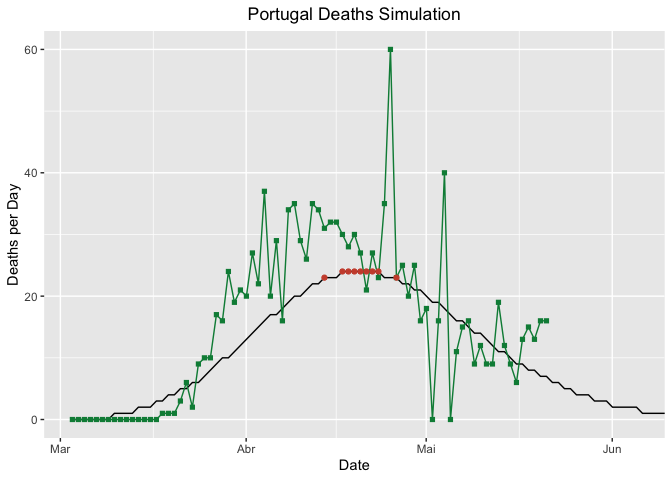
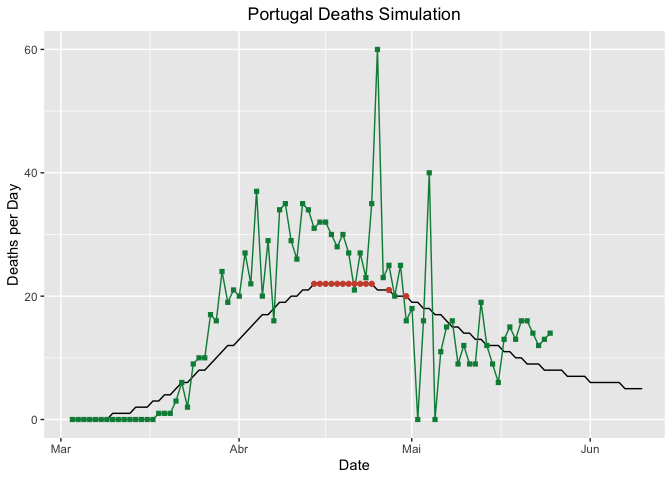
daily commit

diff --git a/README.md b/README.md
@@ -1,4 +1,4 @@
-Updated: 2020-05-21
+Updated: 2020-05-25
 
 Synopsis
 --------
@@ -30,13 +30,13 @@ formats. I choose the JSON format.
     data <- as_tibble(dataRaw$records)
     str(data)
 
-    ## Classes 'tbl_df', 'tbl' and 'data.frame':    18412 obs. of  11 variables:
-    ##  $ dateRep                : chr  "21/05/2020" "20/05/2020" "19/05/2020" "18/05/2020" ...
-    ##  $ day                    : chr  "21" "20" "19" "18" ...
+    ## Classes 'tbl_df', 'tbl' and 'data.frame':    19248 obs. of  11 variables:
+    ##  $ dateRep                : chr  "25/05/2020" "24/05/2020" "23/05/2020" "22/05/2020" ...
+    ##  $ day                    : chr  "25" "24" "23" "22" ...
     ##  $ month                  : chr  "5" "5" "5" "5" ...
     ##  $ year                   : chr  "2020" "2020" "2020" "2020" ...
-    ##  $ cases                  : chr  "492" "581" "408" "262" ...
-    ##  $ deaths                 : chr  "9" "5" "4" "1" ...
+    ##  $ cases                  : chr  "584" "782" "540" "531" ...
+    ##  $ deaths                 : chr  "2" "11" "12" "6" ...
     ##  $ countriesAndTerritories: chr  "Afghanistan" "Afghanistan" "Afghanistan" "Afghanistan" ...
     ##  $ geoId                  : chr  "AF" "AF" "AF" "AF" ...
     ##  $ countryterritoryCode   : chr  "AFG" "AFG" "AFG" "AFG" ...
@@ -58,13 +58,13 @@ numeric values and date values into their respective formats.
     data$popData2018 <- as.numeric(data$popData2018)
     str(data)
 
-    ## Classes 'tbl_df', 'tbl' and 'data.frame':    18412 obs. of  11 variables:
-    ##  $ dateRep                : Date, format: "2020-05-21" "2020-05-20" ...
-    ##  $ day                    : num  21 20 19 18 17 16 15 14 13 12 ...
+    ## Classes 'tbl_df', 'tbl' and 'data.frame':    19248 obs. of  11 variables:
+    ##  $ dateRep                : Date, format: "2020-05-25" "2020-05-24" ...
+    ##  $ day                    : num  25 24 23 22 21 20 19 18 17 16 ...
     ##  $ month                  : num  5 5 5 5 5 5 5 5 5 5 ...
     ##  $ year                   : num  2020 2020 2020 2020 2020 2020 2020 2020 2020 2020 ...
-    ##  $ cases                  : num  492 581 408 262 0 ...
-    ##  $ deaths                 : num  9 5 4 1 0 32 6 3 5 2 ...
+    ##  $ cases                  : num  584 782 540 531 492 ...
+    ##  $ deaths                 : num  2 11 12 6 9 5 4 1 0 32 ...
     ##  $ countriesAndTerritories: chr  "Afghanistan" "Afghanistan" "Afghanistan" "Afghanistan" ...
     ##  $ geoId                  : chr  "AF" "AF" "AF" "AF" ...
     ##  $ countryterritoryCode   : chr  "AFG" "AFG" "AFG" "AFG" ...
@@ -78,28 +78,28 @@ Let’s check out a summary of our data:
 
     ##     dateRep                day            month             year     
     ##  Min.   :2019-12-31   Min.   : 1.00   Min.   : 1.000   Min.   :2019  
-    ##  1st Qu.:2020-03-10   1st Qu.: 8.00   1st Qu.: 3.000   1st Qu.:2020  
-    ##  Median :2020-04-07   Median :15.00   Median : 4.000   Median :2020  
-    ##  Mean   :2020-03-30   Mean   :15.44   Mean   : 3.509   Mean   :2020  
-    ##  3rd Qu.:2020-04-29   3rd Qu.:22.00   3rd Qu.: 4.000   3rd Qu.:2020  
-    ##  Max.   :2020-05-21   Max.   :31.00   Max.   :12.000   Max.   :2020  
+    ##  1st Qu.:2020-03-12   1st Qu.: 9.00   1st Qu.: 3.000   1st Qu.:2020  
+    ##  Median :2020-04-09   Median :16.00   Median : 4.000   Median :2020  
+    ##  Mean   :2020-04-01   Mean   :15.79   Mean   : 3.574   Mean   :2020  
+    ##  3rd Qu.:2020-05-02   3rd Qu.:23.00   3rd Qu.: 5.000   3rd Qu.:2020  
+    ##  Max.   :2020-05-25   Max.   :31.00   Max.   :12.000   Max.   :2020  
     ##                                                                      
     ##      cases             deaths        countriesAndTerritories    geoId          
-    ##  Min.   :-2461.0   Min.   :   0.00   Length:18412            Length:18412      
+    ##  Min.   :-2461.0   Min.   :   0.00   Length:19248            Length:19248      
     ##  1st Qu.:    0.0   1st Qu.:   0.00   Class :character        Class :character  
     ##  Median :    2.0   Median :   0.00   Mode  :character        Mode  :character  
-    ##  Mean   :  269.4   Mean   :  17.81                                             
-    ##  3rd Qu.:   40.0   3rd Qu.:   1.00                                             
+    ##  Mean   :  279.1   Mean   :  17.91                                             
+    ##  3rd Qu.:   44.0   3rd Qu.:   1.00                                             
     ##  Max.   :48529.0   Max.   :4928.00                                             
     ##                                                                                
     ##  countryterritoryCode  popData2018        continentExp      
-    ##  Length:18412         Min.   :1.000e+03   Length:18412      
-    ##  Class :character     1st Qu.:2.254e+06   Class :character  
+    ##  Length:19248         Min.   :1.000e+03   Length:19248      
+    ##  Class :character     1st Qu.:2.119e+06   Class :character  
     ##  Mode  :character     Median :9.631e+06   Mode  :character  
-    ##                       Mean   :5.114e+07                     
-    ##                       3rd Qu.:3.603e+07                     
+    ##                       Mean   :5.053e+07                     
+    ##                       3rd Qu.:3.370e+07                     
     ##                       Max.   :1.393e+09                     
-    ##                       NA's   :241
+    ##                       NA's   :261
 
 Ok, something awkward is going on. The **new cases** and **deaths**
 variable have negative values, because, as one may notice, the minimum
@@ -156,49 +156,49 @@ absolute numbers with percentages related to country population:
 <tbody>
 <tr class="odd">
 <td style="text-align: left;">United_States_of_America</td>
-<td style="text-align: right;">1551853</td>
+<td style="text-align: right;">1643238</td>
 </tr>
 <tr class="even">
-<td style="text-align: left;">Russia</td>
-<td style="text-align: right;">308705</td>
+<td style="text-align: left;">Brazil</td>
+<td style="text-align: right;">363211</td>
 </tr>
 <tr class="odd">
-<td style="text-align: left;">Brazil</td>
-<td style="text-align: right;">291579</td>
+<td style="text-align: left;">Russia</td>
+<td style="text-align: right;">344481</td>
 </tr>
 <tr class="even">
 <td style="text-align: left;">United_Kingdom</td>
-<td style="text-align: right;">248293</td>
+<td style="text-align: right;">259559</td>
 </tr>
 <tr class="odd">
 <td style="text-align: left;">Spain</td>
-<td style="text-align: right;">232555</td>
+<td style="text-align: right;">235772</td>
 </tr>
 <tr class="even">
 <td style="text-align: left;">Italy</td>
-<td style="text-align: right;">227364</td>
+<td style="text-align: right;">229858</td>
 </tr>
 <tr class="odd">
 <td style="text-align: left;">Germany</td>
-<td style="text-align: right;">176752</td>
+<td style="text-align: right;">178570</td>
 </tr>
 <tr class="even">
 <td style="text-align: left;">Turkey</td>
-<td style="text-align: right;">152587</td>
+<td style="text-align: right;">156827</td>
 </tr>
 <tr class="odd">
 <td style="text-align: left;">France</td>
-<td style="text-align: right;">143845</td>
+<td style="text-align: right;">144921</td>
 </tr>
 <tr class="even">
-<td style="text-align: left;">Iran</td>
-<td style="text-align: right;">126949</td>
+<td style="text-align: left;">India</td>
+<td style="text-align: right;">138845</td>
 </tr>
 </tbody>
 </table>
 
 The above table reflects the ranked 10 worst countries in COVID-19
-diagnosed cases. Portugal is ranked **26**, with **29660** total cases.
+diagnosed cases. Portugal is ranked **28**, with **30623** total cases.
 
     DeathsRank <- data %>% 
             group_by(countriesAndTerritories) %>%
@@ -222,49 +222,49 @@ diagnosed cases. Portugal is ranked **26**, with **29660** total cases.
 <tbody>
 <tr class="odd">
 <td style="text-align: left;">United_States_of_America</td>
-<td style="text-align: right;">93439</td>
+<td style="text-align: right;">97720</td>
 </tr>
 <tr class="even">
 <td style="text-align: left;">United_Kingdom</td>
-<td style="text-align: right;">35704</td>
+<td style="text-align: right;">36793</td>
 </tr>
 <tr class="odd">
 <td style="text-align: left;">Italy</td>
-<td style="text-align: right;">32330</td>
+<td style="text-align: right;">32785</td>
 </tr>
 <tr class="even">
-<td style="text-align: left;">France</td>
-<td style="text-align: right;">28132</td>
+<td style="text-align: left;">Spain</td>
+<td style="text-align: right;">28752</td>
 </tr>
 <tr class="odd">
-<td style="text-align: left;">Spain</td>
-<td style="text-align: right;">27888</td>
+<td style="text-align: left;">France</td>
+<td style="text-align: right;">28367</td>
 </tr>
 <tr class="even">
 <td style="text-align: left;">Brazil</td>
-<td style="text-align: right;">18859</td>
+<td style="text-align: right;">22666</td>
 </tr>
 <tr class="odd">
 <td style="text-align: left;">Belgium</td>
-<td style="text-align: right;">9150</td>
+<td style="text-align: right;">9280</td>
 </tr>
 <tr class="even">
 <td style="text-align: left;">Germany</td>
-<td style="text-align: right;">8147</td>
+<td style="text-align: right;">8257</td>
 </tr>
 <tr class="odd">
 <td style="text-align: left;">Iran</td>
-<td style="text-align: right;">7183</td>
+<td style="text-align: right;">7417</td>
 </tr>
 <tr class="even">
 <td style="text-align: left;">Mexico</td>
-<td style="text-align: right;">6090</td>
+<td style="text-align: right;">7394</td>
 </tr>
 </tbody>
 </table>
 
 The above table reflects the ranked 10 worst countries in COVID-19
-deaths. Portugal is ranked **22**, with **1263** total deaths.
+deaths. Portugal is ranked **23**, with **1316** total deaths.
 
 Let us now check the same rates in percentage.
 
@@ -304,15 +304,15 @@ Let us now check the same rates in percentage.
 </tr>
 <tr class="even">
 <td style="text-align: left;">San_Marino</td>
-<td style="text-align: right;">656</td>
+<td style="text-align: right;">665</td>
 <td style="text-align: right;">33785</td>
-<td style="text-align: right;">1.9416901</td>
+<td style="text-align: right;">1.9683291</td>
 </tr>
 <tr class="odd">
 <td style="text-align: left;">Qatar</td>
-<td style="text-align: right;">37097</td>
+<td style="text-align: right;">43714</td>
 <td style="text-align: right;">2781677</td>
-<td style="text-align: right;">1.3336200</td>
+<td style="text-align: right;">1.5714981</td>
 </tr>
 <tr class="even">
 <td style="text-align: left;">Holy_See</td>
@@ -322,39 +322,39 @@ Let us now check the same rates in percentage.
 </tr>
 <tr class="odd">
 <td style="text-align: left;">Andorra</td>
-<td style="text-align: right;">762</td>
+<td style="text-align: right;">763</td>
 <td style="text-align: right;">77006</td>
-<td style="text-align: right;">0.9895333</td>
+<td style="text-align: right;">0.9908319</td>
 </tr>
 <tr class="even">
 <td style="text-align: left;">Luxembourg</td>
-<td style="text-align: right;">3971</td>
+<td style="text-align: right;">3992</td>
 <td style="text-align: right;">607728</td>
-<td style="text-align: right;">0.6534173</td>
-</tr>
-<tr class="odd">
-<td style="text-align: left;">Singapore</td>
-<td style="text-align: right;">29364</td>
-<td style="text-align: right;">5638676</td>
-<td style="text-align: right;">0.5207605</td>
-</tr>
-<tr class="even">
-<td style="text-align: left;">Iceland</td>
-<td style="text-align: right;">1803</td>
-<td style="text-align: right;">353574</td>
-<td style="text-align: right;">0.5099357</td>
+<td style="text-align: right;">0.6568728</td>
 </tr>
 <tr class="odd">
 <td style="text-align: left;">Bahrain</td>
-<td style="text-align: right;">7888</td>
+<td style="text-align: right;">9138</td>
 <td style="text-align: right;">1569439</td>
-<td style="text-align: right;">0.5026000</td>
+<td style="text-align: right;">0.5822463</td>
 </tr>
 <tr class="even">
-<td style="text-align: left;">Ireland</td>
-<td style="text-align: right;">24315</td>
-<td style="text-align: right;">4853506</td>
-<td style="text-align: right;">0.5009781</td>
+<td style="text-align: left;">Singapore</td>
+<td style="text-align: right;">31616</td>
+<td style="text-align: right;">5638676</td>
+<td style="text-align: right;">0.5606990</td>
+</tr>
+<tr class="odd">
+<td style="text-align: left;">Kuwait</td>
+<td style="text-align: right;">21302</td>
+<td style="text-align: right;">4137309</td>
+<td style="text-align: right;">0.5148757</td>
+</tr>
+<tr class="even">
+<td style="text-align: left;">Iceland</td>
+<td style="text-align: right;">1804</td>
+<td style="text-align: right;">353574</td>
+<td style="text-align: right;">0.5102185</td>
 </tr>
 </tbody>
 </table>
@@ -379,15 +379,15 @@ Let us now check the same rates in percentage.
 </tr>
 <tr class="even">
 <td style="text-align: left;">San_Marino</td>
-<td style="text-align: right;">41</td>
+<td style="text-align: right;">42</td>
 <td style="text-align: right;">33785</td>
-<td style="text-align: right;">0.1213556</td>
+<td style="text-align: right;">0.1243155</td>
 </tr>
 <tr class="odd">
 <td style="text-align: left;">Belgium</td>
-<td style="text-align: right;">9150</td>
+<td style="text-align: right;">9280</td>
 <td style="text-align: right;">11422068</td>
-<td style="text-align: right;">0.0801081</td>
+<td style="text-align: right;">0.0812462</td>
 </tr>
 <tr class="even">
 <td style="text-align: left;">Andorra</td>
@@ -397,33 +397,33 @@ Let us now check the same rates in percentage.
 </tr>
 <tr class="odd">
 <td style="text-align: left;">Spain</td>
-<td style="text-align: right;">27888</td>
+<td style="text-align: right;">28752</td>
 <td style="text-align: right;">46723749</td>
-<td style="text-align: right;">0.0596870</td>
+<td style="text-align: right;">0.0615362</td>
 </tr>
 <tr class="even">
 <td style="text-align: left;">United_Kingdom</td>
-<td style="text-align: right;">35704</td>
+<td style="text-align: right;">36793</td>
 <td style="text-align: right;">66488991</td>
-<td style="text-align: right;">0.0536991</td>
+<td style="text-align: right;">0.0553370</td>
 </tr>
 <tr class="odd">
 <td style="text-align: left;">Italy</td>
-<td style="text-align: right;">32330</td>
+<td style="text-align: right;">32785</td>
 <td style="text-align: right;">60431283</td>
-<td style="text-align: right;">0.0534988</td>
+<td style="text-align: right;">0.0542517</td>
 </tr>
 <tr class="even">
 <td style="text-align: left;">France</td>
-<td style="text-align: right;">28132</td>
+<td style="text-align: right;">28367</td>
 <td style="text-align: right;">66987244</td>
-<td style="text-align: right;">0.0419961</td>
+<td style="text-align: right;">0.0423469</td>
 </tr>
 <tr class="odd">
 <td style="text-align: left;">Sweden</td>
-<td style="text-align: right;">3831</td>
+<td style="text-align: right;">3998</td>
 <td style="text-align: right;">10183175</td>
-<td style="text-align: right;">0.0376209</td>
+<td style="text-align: right;">0.0392608</td>
 </tr>
 <tr class="even">
 <td style="text-align: left;">Sint_Maarten</td>
@@ -436,8 +436,8 @@ Let us now check the same rates in percentage.
 
 There are evident differences from percentage to absolute numbers in the
 extremes (but in fact Portugal doesn’t change much at the time of this
-report writing). In percentage Portugal is in **25** place for cases and
-**25** for deaths. Is this a fair comparison? There may be missing
+report writing). In percentage Portugal is in **27** place for cases and
+**27** for deaths. Is this a fair comparison? There may be missing
 variables to understand our data: some index of number of urban centers
 per country for example, and also the predominance of respiratory
 diseases, atmospheric pollution and elderly people percentage. Also, the
@@ -535,19 +535,20 @@ effect.
 ![](README_files/figure-markdown_strict/deaths%20with%20sim-1.png)
 
 As we can observe from the graphs, the worst seems to have passed. The
-peak for new cases detected was in **2020-04-05** and the peak for
-deaths in Portugal was in **2020-04-17, 2020-04-18, 2020-04-19,
-2020-04-20, 2020-04-21, 2020-04-22, 2020-04-23**.
+peak for new cases detected was in **2020-04-06** and the peak for
+deaths in Portugal was in **2020-04-14, 2020-04-15, 2020-04-16,
+2020-04-17, 2020-04-18, 2020-04-19, 2020-04-20, 2020-04-21, 2020-04-22,
+2020-04-23, 2020-04-24**.
 
 Conclusions
 -----------
 
--   Cases: Portugal is ranked **26** in 207 countries, with **29660**
-    total cases. Portugal had the peak of cases in **2020-04-05**.  
--   Deaths: Portugal is ranked **22** in 207 countries, with **1263**
-    total deaths. Portugal had the peak of deaths in **2020-04-17,
-    2020-04-18, 2020-04-19, 2020-04-20, 2020-04-21, 2020-04-22,
-    2020-04-23**.
+-   Cases: Portugal is ranked **28** in 207 countries, with **30623**
+    total cases. Portugal had the peak of cases in **2020-04-06**.  
+-   Deaths: Portugal is ranked **23** in 207 countries, with **1316**
+    total deaths. Portugal had the peak of deaths in **2020-04-14,
+    2020-04-15, 2020-04-16, 2020-04-17, 2020-04-18, 2020-04-19,
+    2020-04-20, 2020-04-21, 2020-04-22, 2020-04-23, 2020-04-24**.
 
 The fact that the “peaks” have passed for the cases and deaths in
 Portugal doesn’t mean that the problem is over. For example, the peaks
